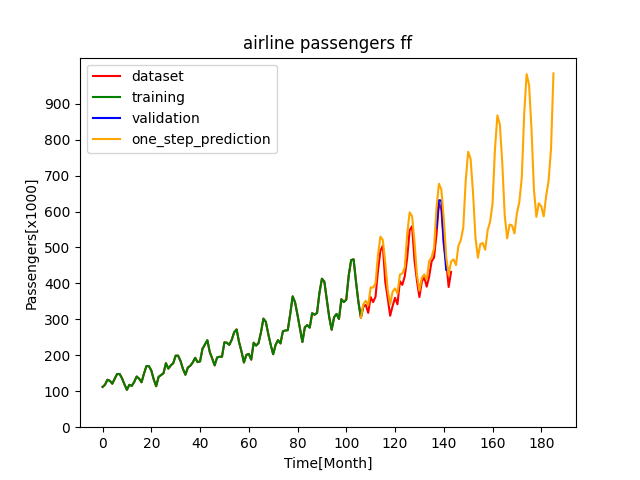
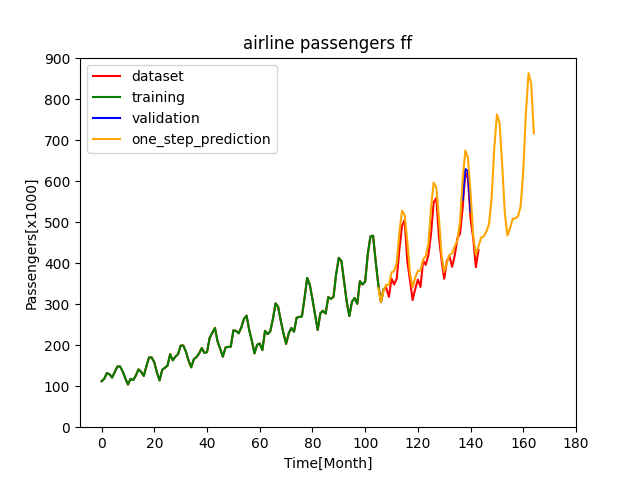
add earlyStopping callback to airline_passengers_keras_basic_workflow

diff --git a/TimeSeriesPrediction/UnivariatTimeSeriesForecast/AirlinePassengers/Keras/workflows/airline_passengers_keras_basic_workflow.py b/TimeSeriesPrediction/UnivariatTimeSeriesForecast/AirlinePassengers/Keras/workflows/airline_passengers_keras_basic_workflow.py
@@ -1,4 +1,5 @@
 from keras import optimizers
+from keras.callbacks import EarlyStopping
 import matplotlib.pyplot as plt
 from TimeSeriesPrediction.UnivariatTimeSeriesForecast.AirlinePassengers.airline_passengers_utilities import *
 
@@ -8,7 +9,7 @@ BATCH_SIZE = 1
 LOOK_BACK = 30
 LOOK_OUT = 1
 PREDICTION_START = -1
-NUMBER_OF_PREDICTIONS = 80
+NUMBER_OF_PREDICTIONS = 60
 
 
 def workflow(model, name):
@@ -19,8 +20,10 @@ def workflow(model, name):
     train_inputs, train_targets = TimeSeriesGenerator(train, LOOK_BACK, LOOK_OUT).create_timeseries()
     test_inputs, test_targets = TimeSeriesGenerator(test, LOOK_BACK, LOOK_OUT).create_timeseries()
 
+    early_stopping = EarlyStopping(monitor='loss', patience=50, verbose=1, restore_best_weights=True)
+
     model.compile(optimizer=optimizers.Adam(LEARNING_RATE), loss='mean_squared_error')
-    model.fit(train_inputs, train_targets, epochs=EPOCHS, batch_size=BATCH_SIZE)
+    model.fit(train_inputs, train_targets, epochs=EPOCHS, batch_size=BATCH_SIZE, callbacks=[early_stopping])
 
     validation_results = validation_forecast(model, test_inputs)
 
@@ -38,7 +41,7 @@ def workflow(model, name):
 
     prediction = pd.DataFrame()
     prediction["one_step_prediction"] = prediction_results
-    prediction.index += airline_passengers.threshold + start_index
+    prediction.index += airline_passengers.threshold + start_index - 1
 
     plt.plot(airline_passengers.data["Passengers"], color="red", label="dataset")
     plt.plot(airline_passengers.get_train_data(), color="green", label="training")
